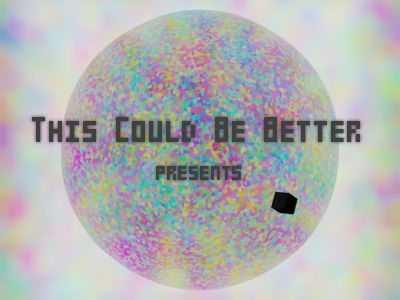
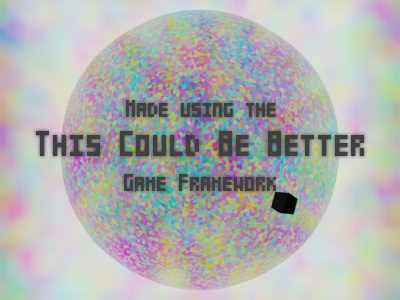
Inserted producer credit screen in between opening and title screens.

Changed region(s): [[0.06, 0.33, 0.93, 0.66]]

diff --git a/Source/Controls/ControlBuilder.js b/Source/Controls/ControlBuilder.js
@@ -428,15 +428,17 @@ var ThisCouldBeBetter;
                 }
                 var scaleMultiplier = this._scaleMultiplier.overwriteWith(size).divide(this.sizeBase);
                 var fontHeight = this.fontHeightInPixelsBase;
-                var start = () => {
-                    var title = this.title(universe, size);
-                    var venueTitle = title.toVenue();
-                    universe.venueNext =
-                        controlBuilder.venueTransitionalFromTo(universe.venueCurrent, venueTitle);
+                var goToNextVenue = () => {
+                    var venueNext = this.producer(universe, size).toVenue();
+                    universe.venueNext = controlBuilder.venueTransitionalFromTo(universe.venueCurrent, venueNext);
                 };
                 var visual = new GameFramework.VisualGroup([
                     new GameFramework.VisualImageScaled(new GameFramework.VisualImageFromLibrary("Opening"), size)
+                    // Note: Sound won't work on the opening screen,
+                    // because the user has to interact somehow
+                    // before the browser will play sound.
                 ]);
+                var controlActionNames = GameFramework.ControlActionNames.Instances();
                 var returnValue = new GameFramework.ControlContainer("containerOpening", this._zeroes, // pos
                 this.sizeBase.clone(), // size
                 // children
@@ -448,12 +450,49 @@ var ThisCouldBeBetter;
                     GameFramework.Coords.fromXY(50, fontHeight * 2), // size
                     "Start", fontHeight * 2, false, // hasBorder
                     true, // isEnabled
-                    start // click
+                    goToNextVenue // click
                     )
                 ], // end children
                 [
-                    new GameFramework.Action(GameFramework.ControlActionNames.Instances().ControlCancel, start),
-                    new GameFramework.Action(GameFramework.ControlActionNames.Instances().ControlConfirm, start)
+                    new GameFramework.Action(controlActionNames.ControlCancel, goToNextVenue),
+                    new GameFramework.Action(controlActionNames.ControlConfirm, goToNextVenue)
+                ], null);
+                returnValue.scalePosAndSize(scaleMultiplier);
+                return returnValue;
+            }
+            producer(universe, size) {
+                var controlBuilder = this;
+                if (size == null) {
+                    size = universe.display.sizeDefault();
+                }
+                var scaleMultiplier = this._scaleMultiplier.overwriteWith(size).divide(this.sizeBase);
+                var fontHeight = this.fontHeightInPixelsBase;
+                var goToVenueNext = () => {
+                    var venueTitle = this.title(universe, size).toVenue();
+                    universe.venueNext = controlBuilder.venueTransitionalFromTo(universe.venueCurrent, venueTitle);
+                };
+                var visual = new GameFramework.VisualGroup([
+                    new GameFramework.VisualImageScaled(new GameFramework.VisualImageFromLibrary("Producer"), size),
+                    new GameFramework.VisualSound("Music_Producer", true) // isMusic
+                ]);
+                var controlActionNames = GameFramework.ControlActionNames.Instances();
+                var returnValue = new GameFramework.ControlContainer("containerProducer", this._zeroes, // pos
+                this.sizeBase.clone(), // size
+                // children
+                [
+                    new GameFramework.ControlVisual("imageProducer", this._zeroes.clone(), this.sizeBase.clone(), // size
+                    GameFramework.DataBinding.fromContext(visual), null, null // colors
+                    ),
+                    GameFramework.ControlButton.from8("buttonStart", GameFramework.Coords.fromXY(75, 120), // pos
+                    GameFramework.Coords.fromXY(50, fontHeight * 2), // size
+                    "Start", fontHeight * 2, false, // hasBorder
+                    true, // isEnabled
+                    goToVenueNext // click
+                    )
+                ], // end children
+                [
+                    new GameFramework.Action(controlActionNames.ControlCancel, goToVenueNext),
+                    new GameFramework.Action(controlActionNames.ControlConfirm, goToVenueNext)
                 ], null);
                 returnValue.scalePosAndSize(scaleMultiplier);
                 return returnValue;
@@ -632,11 +671,9 @@ var ThisCouldBeBetter;
                     universe.venueNext = controlBuilder.venueTransitionalFromTo(universe.venueCurrent, venueTask);
                 };
                 var visual = new GameFramework.VisualGroup([
-                    new GameFramework.VisualImageScaled(new GameFramework.VisualImageFromLibrary("Title"), size)
+                    new GameFramework.VisualImageScaled(new GameFramework.VisualImageFromLibrary("Title"), size),
+                    new GameFramework.VisualSound("Music_Title", true) // isMusic
                 ]);
-                var soundNameMusic = "Music_Title";
-                visual.children.push(new GameFramework.VisualSound(soundNameMusic, true) // isMusic
-                );
                 var returnValue = new GameFramework.ControlContainer("containerTitle", this._zeroes, // pos
                 this.sizeBase.clone(), // size
                 // children

diff --git a/Source/Controls/ControlBuilder.ts b/Source/Controls/ControlBuilder.ts
@@ -946,14 +946,14 @@ export class ControlBuilder
 
 		var fontHeight = this.fontHeightInPixelsBase;
 
-		var start = () =>
+		var goToNextVenue = () =>
 		{
-			var title = this.title(universe, size);
+			var venueNext = this.producer(universe, size).toVenue();
 
-			var venueTitle = title.toVenue();
-
-			universe.venueNext =
-				controlBuilder.venueTransitionalFromTo(universe.venueCurrent, venueTitle);
+			universe.venueNext = controlBuilder.venueTransitionalFromTo
+			(
+				universe.venueCurrent, venueNext
+			);
 		};
 
 		var visual = new VisualGroup
@@ -962,7 +962,12 @@ export class ControlBuilder
 			(
 				new VisualImageFromLibrary("Opening"), size
 			)
+			// Note: Sound won't work on the opening screen,
+			// because the user has to interact somehow
+			// before the browser will play sound.
 		]);
+
+		var controlActionNames = ControlActionNames.Instances();
 
 		var returnValue = new ControlContainer
 		(
@@ -989,13 +994,90 @@ export class ControlBuilder
 					fontHeight * 2,
 					false, // hasBorder
 					true, // isEnabled
-					start // click
+					goToNextVenue // click
 				)
 			], // end children
 
 			[
-				new Action( ControlActionNames.Instances().ControlCancel, start ),
-				new Action( ControlActionNames.Instances().ControlConfirm, start )
+				new Action( controlActionNames.ControlCancel, goToNextVenue ),
+				new Action( controlActionNames.ControlConfirm, goToNextVenue )
+			],
+
+			null
+		);
+
+		returnValue.scalePosAndSize(scaleMultiplier);
+
+		return returnValue;
+	}
+
+	producer(universe: Universe, size: Coords): ControlBase
+	{
+		var controlBuilder = this;
+
+		if (size == null)
+		{
+			size = universe.display.sizeDefault();
+		}
+
+		var scaleMultiplier =
+			this._scaleMultiplier.overwriteWith(size).divide(this.sizeBase);
+
+		var fontHeight = this.fontHeightInPixelsBase;
+
+		var goToVenueNext = () =>
+		{
+			var venueTitle = this.title(universe, size).toVenue();
+
+			universe.venueNext = controlBuilder.venueTransitionalFromTo
+			(
+				universe.venueCurrent, venueTitle
+			);
+		};
+
+		var visual = new VisualGroup
+		([
+			new VisualImageScaled
+			(
+				new VisualImageFromLibrary("Producer"), size
+			),
+			new VisualSound("Music_Producer", true) // isMusic
+		]);
+
+		var controlActionNames = ControlActionNames.Instances();
+
+		var returnValue = new ControlContainer
+		(
+			"containerProducer",
+			this._zeroes, // pos
+			this.sizeBase.clone(), // size
+			// children
+			[
+				new ControlVisual
+				(
+					"imageProducer",
+					this._zeroes.clone(),
+					this.sizeBase.clone(), // size
+					DataBinding.fromContext<Visual>(visual),
+					null, null // colors
+				),
+
+				ControlButton.from8
+				(
+					"buttonStart",
+					Coords.fromXY(75, 120), // pos
+					Coords.fromXY(50, fontHeight * 2), // size
+					"Start",
+					fontHeight * 2,
+					false, // hasBorder
+					true, // isEnabled
+					goToVenueNext // click
+				)
+			], // end children
+
+			[
+				new Action( controlActionNames.ControlCancel, goToVenueNext ),
+				new Action( controlActionNames.ControlConfirm, goToVenueNext )
 			],
 
 			null
@@ -1370,14 +1452,9 @@ export class ControlBuilder
 			new VisualImageScaled
 			(
 				new VisualImageFromLibrary("Title"), size
-			)
+			),
+			new VisualSound("Music_Title", true) // isMusic
 		]);
-
-		var soundNameMusic = "Music_Title";
-		visual.children.push
-		(
-			new VisualSound(soundNameMusic, true) // isMusic
-		);
 
 		var returnValue = new ControlContainer
 		(

diff --git a/Source/Demo/GameDemo.js b/Source/Demo/GameDemo.js
@@ -36,19 +36,21 @@ class GameDemo {
         var textStringDirectoryPath = contentDirectoryPath + "Text/";
         var videoDirectoryPath = contentDirectoryPath + "Video/";
         var mediaFilePaths = [
+            imageDirectoryPath + "Opening.png",
+            imageDirectoryPath + "Producer.png",
+            imageDirectoryPath + "Title.png",
             imageDirectoryPath + "Anvil.svg",
             imageDirectoryPath + "Car.png",
             imageDirectoryPath + "Friendly.png",
             imageDirectoryPath + "Grass.svg",
             imageDirectoryPath + "Grain.svg",
-            imageDirectoryPath + "Opening.png",
             imageDirectoryPath + "Pillow.svg",
             imageDirectoryPath + "Terrain-Sand.png",
-            imageDirectoryPath + "Title.png",
             imageDirectoryPath + "Zap.svg",
             soundEffectDirectoryPath + "Sound.wav",
             soundEffectDirectoryPath + "Clang.wav",
             soundMusicDirectoryPath + "Music.mp3",
+            soundMusicDirectoryPath + "Producer.mp3",
             soundMusicDirectoryPath + "Title.mp3",
             videoDirectoryPath + "Movie.webm",
             fontDirectoryPath + "Font.ttf",

diff --git a/Source/Demo/GameDemo.ts b/Source/Demo/GameDemo.ts
@@ -71,21 +71,24 @@ class GameDemo
 
 		var mediaFilePaths =
 		[
+			imageDirectoryPath + "Opening.png",
+			imageDirectoryPath + "Producer.png",
+			imageDirectoryPath + "Title.png",
+
 			imageDirectoryPath + "Anvil.svg",
 			imageDirectoryPath + "Car.png",
 			imageDirectoryPath + "Friendly.png",
 			imageDirectoryPath + "Grass.svg",
 			imageDirectoryPath + "Grain.svg",
-			imageDirectoryPath + "Opening.png",
 			imageDirectoryPath + "Pillow.svg",
 			imageDirectoryPath + "Terrain-Sand.png",
-			imageDirectoryPath + "Title.png",
 			imageDirectoryPath + "Zap.svg",
 
 			soundEffectDirectoryPath + "Sound.wav",
 			soundEffectDirectoryPath + "Clang.wav",
 
 			soundMusicDirectoryPath + "Music.mp3",
+			soundMusicDirectoryPath + "Producer.mp3",
 			soundMusicDirectoryPath + "Title.mp3",
 
 			videoDirectoryPath + "Movie.webm",

diff --git a/Source/Stub/Source/Game.js b/Source/Stub/Source/Game.js
@@ -37,9 +37,11 @@ class Game {
         var videoDirectoryPath = contentDirectoryPath + "Video/";
         var mediaFilePaths = [
             imageDirectoryPath + "Opening.png",
+            imageDirectoryPath + "Producer.png",
             imageDirectoryPath + "Title.png",
             soundEffectDirectoryPath + "Sound.wav",
             soundMusicDirectoryPath + "Music.mp3",
+            soundMusicDirectoryPath + "Producer.mp3",
             soundMusicDirectoryPath + "Title.mp3",
             videoDirectoryPath + "Movie.webm",
             fontDirectoryPath + "Font.ttf",

diff --git a/Source/Stub/Source/Game.ts b/Source/Stub/Source/Game.ts
@@ -71,11 +71,13 @@ class Game
 		var mediaFilePaths =
 		[
 			imageDirectoryPath + "Opening.png",
+			imageDirectoryPath + "Producer.png",
 			imageDirectoryPath + "Title.png",
 
 			soundEffectDirectoryPath + "Sound.wav",
 
 			soundMusicDirectoryPath + "Music.mp3",
+			soundMusicDirectoryPath + "Producer.mp3",
 			soundMusicDirectoryPath + "Title.mp3",
 
 			videoDirectoryPath + "Movie.webm",
